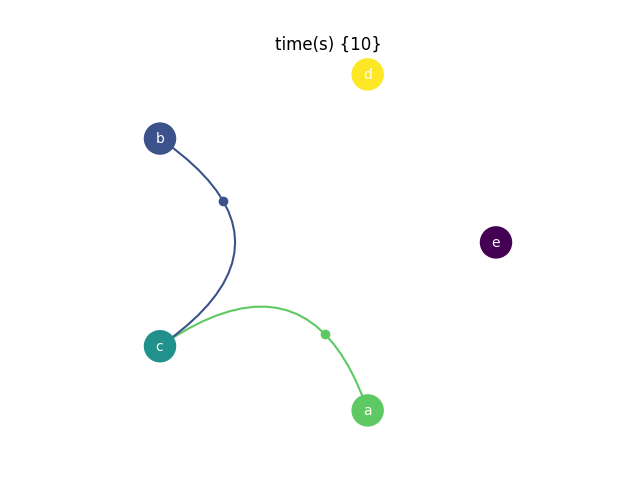
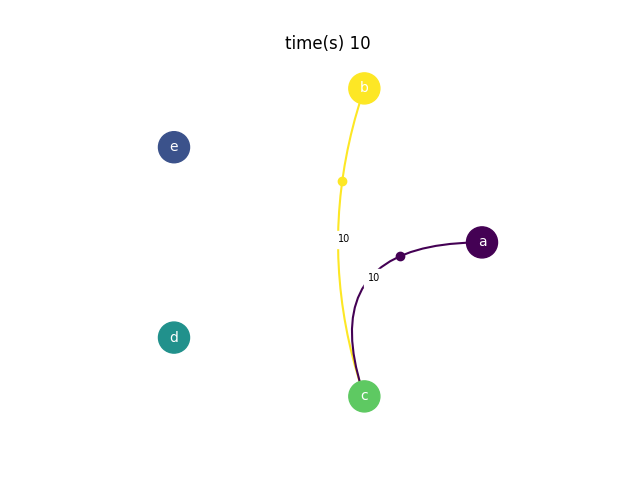
updated plotting, added requirements.txt

diff --git a/OVERTIME/plots/circle.py b/OVERTIME/plots/circle.py
@@ -1,36 +1,36 @@
 
 import math
 import numpy as np
-import matplotlib.pyplot as plot
+import matplotlib.pyplot as plt
 import matplotlib.lines as lines
+from plots.plot import Plot
 
-class Circle:
+
+
+class Circle(Plot):
     """
         A class which represents a circle plot of a graph.
     """
 
-    def __init__(self, graph):
-        self.graph = graph
-        self.nodes = {}
-        self.edges = {}
-        self.fig, self.ax = plot.subplots(1)
-        self.create()
+    def __init__(self, graph, axes, time=None):
+        super().__init__(graph, axes, time)
 
 
-    def create(self):
-        graph = self.graph
+    def create_nodes(self):
+        n = self.graph.nodes.count()
         nodes = self.nodes
-        edges = self.edges
-        n = graph.nodes.count()
-
         i = 0
-        for node in graph.nodes.set:
+        for node in self.graph.nodes.set:
             nodes[node.label] = {}
             nodes[node.label]['x'] = math.cos(2 * math.pi * i / n)
             nodes[node.label]['y'] = math.sin(2 * math.pi * i / n)
             i += 1
-            
-        for edge in graph.edges.stream:
+
+
+    def create_edges(self):
+        nodes = self.nodes
+        edges = self.edges
+        for edge in self.graph.edges.stream:
             edges[edge.uid] = {}
             edges[edge.uid]['p1'] = {}
             edges[edge.uid]['p1']['x'] = nodes[edge.source.label]['x']
@@ -39,36 +39,24 @@ class Circle:
             edges[edge.uid]['p2']['x'] = nodes[edge.sink.label]['x']
             edges[edge.uid]['p2']['y'] = nodes[edge.sink.label]['y']
 
-        
-        self.draw_figure(graph)
-        self.draw_nodes(graph, nodes, edges, n)
-        self.draw_edges(graph, nodes, edges)
-        self.cleanup()
 
-
-    def draw_figure(self, graph):
-        title = 'time(s) ' + str(graph.edges.active_times())
-        self.ax.set_title(
-            label=title,
-            loc='center'
-        )
-
-
-    def draw_nodes(self, graph, nodes, edges, n):
+    def draw_nodes(self):
+        n = self.graph.nodes.count()
+        nodes = self.nodes
         pos = {}
         pos['x'] = [nodes[key]['x'] for key in nodes.keys()]
         pos['y'] = [nodes[key]['y'] for key in nodes.keys()]
 
         colors = self.colors(n)
-        ax_node = self.ax.scatter(
+        ax_node = self.axes.scatter(
             pos['x'], pos['y'], s=500, c=colors, cmap='viridis', zorder=1
         )
-        plot.draw()
+        plt.draw()
 
         i = 0
         for node in self.graph.nodes.set:
             nodes[node.label]['color'] = ax_node.to_rgba(colors[i])
-            self.ax.text(
+            self.axes.text(
                 nodes[node.label]['x']-0.025, nodes[node.label]['y']-0.025,
                 node.label, color='white'
             )
@@ -86,33 +74,37 @@ class Circle:
         return c_mix
 
 
-    def draw_edges(self, graph, nodes, edges):
-        for edge in graph.edges.stream:
+    def draw_edges(self):
+        nodes = self.nodes
+        edges = self.edges
+        for edge in self.graph.edges.stream:
             bezier = self.bezier(
                 edges[edge.uid]['p1'],
                 edges[edge.uid]['p2']
             )
-            self.ax.plot(
+            self.axes.plot(
                 bezier['x'],
                 bezier['y'],
                 linestyle='-',
                 color=nodes[edge.source.label]['color'],
                 zorder=0
             )
-            self.ax.plot(
+            self.axes.plot(
                 bezier['x'][6],
                 bezier['y'][6],
                 'o',
                 color=nodes[edge.source.label]['color'],
                 zorder=1
             )
-            # self.ax.text(
-            #     bezier['x'][10], bezier['y'][10],
-            #     edge.time, 
-            #     color='black', backgroundcolor='white',
-            #     fontsize='x-small',
-            #     zorder=1
-            # )
+
+            if self.time is None:
+                self.axes.text(
+                    bezier['x'][10], bezier['y'][10],
+                    edge.time, 
+                    color='black', backgroundcolor='white',
+                    fontsize='x-small',
+                    zorder=1
+                )
 
 
     def bezier(self, p1, p2, p0=(0,0), nt=20):
@@ -131,7 +123,7 @@ class Circle:
 
 
     def cleanup(self):
-        ax = self.ax
+        ax = self.axes
         ax.set_yticklabels([])
         ax.set_xticklabels([])
         ax.set_yticks([])
@@ -144,8 +136,4 @@ class Circle:
         ax.spines['right'].set_visible(False)
         ax.spines['left'].set_visible(False)
         ax.spines['bottom'].set_visible(False)
-
-
-    def display(self):
-        #self.fig.show()
-        pass
+        ax.margins(0.1, 0.1)

diff --git a/OVERTIME/example.py b/OVERTIME/example.py
@@ -1,5 +1,5 @@
 
-import matplotlib.pyplot as plot
+import matplotlib.pyplot as plt
 import imageio
 
 from inputs.classes import CSVInput
@@ -12,24 +12,26 @@ input_data = CSVInput('network', 'csv', './network.csv')
 graph = TemporalGraph('TestNetwork', input_data)
 graph.print()
 
-# myplot = Circle(graph)
-# myplot.display()
+figure, axes = plt.subplots(1)
+Circle(graph, axes)
 
-# foremost_a = CalculateForemostTree(graph, 'a')
-# myplot = Circle(foremost_a.tree)
-# myplot.display()
+figure, axes = plt.subplots(nrows=2, ncols=2)
+foremost_a = CalculateForemostTree(graph, 'a')
+Circle(foremost_a.tree, axes[0][0])
 
-# foremost_c = CalculateForemostTree(graph, 'c')
-# myplot = Circle(foremost_c.tree)
-# myplot.display()
+foremost_c = CalculateForemostTree(graph, 'c')
+Circle(foremost_c.tree, axes[0][1])
 
-labels = []
-for t in graph.edges.active_times():
-    labels.append('time_' + str(t) + '.png')
-    Circle(graph.get_graph_by_time(t))
-    plot.savefig(labels[-1], format='png')
+# labels = []
+# for t in graph.edges.active_times():
+#     figure, axes = plt.subplots(1)
+#     labels.append('time_' + str(t) + '.png')
+#     Circle(graph.get_graph_by_time(t), axes, t)
+#     figure.savefig(labels[-1], format='png')
 
-images = [imageio.imread(f) for f in labels]
-imageio.mimsave('network.gif', images, duration=3)
+# images = [imageio.imread(f) for f in labels]
+# imageio.mimsave('network.gif', images, duration=3)
+
+plt.show()
 
 input("Press enter key to exit...")

diff --git a/OVERTIME/plots/plot.py b/OVERTIME/plots/plot.py
@@ -1,0 +1,57 @@
+
+import matplotlib.pyplot as plt
+
+class Plot:
+    """
+        Base Plot class.
+    """
+
+    def __init__(self, graph, axes, time=None):
+        self.graph = graph
+        self.time = str(time)[0]
+        self.nodes = {}
+        self.edges = {}
+        self.axes = axes
+        self.create()
+        self.draw()
+
+
+    def create(self):
+        self.create_nodes()
+        self.create_edges()
+
+
+    def draw(self):
+        if self.time is not None:
+            self.draw_figure()
+        self.draw_nodes()
+        self.draw_edges()
+        self.cleanup()
+
+
+    def create_nodes(self):
+        pass
+
+
+    def create_edges(self):
+        pass
+
+
+    def draw_figure(self):
+        title = 'time ' + self.time
+        self.axes.set_title(
+            label=title,
+            loc='center'
+        )
+
+    
+    def draw_nodes(self):
+        pass
+
+
+    def draw_edges(self):
+        pass
+
+
+    def cleanup(self):
+        pass

diff --git a/OVERTIME/multi_plot_example.py b/OVERTIME/multi_plot_example.py
@@ -1,0 +1,29 @@
+
+import matplotlib.pyplot as plt
+
+from inputs.classes import CSVInput
+from components.graphs import TemporalGraph
+from plots.circle import Circle
+
+input_data = CSVInput('network', 'csv', './network.csv')
+
+graph = TemporalGraph('TestNetwork', input_data)
+graph.print()
+
+graph.edges.add('b', 'e', graph.nodes, 4)
+
+
+figure, axes = plt.subplots(nrows=3, ncols=3)
+#times = graph.edges.active_times()
+times = range(0, 10)
+i = 0
+for row in axes:
+    for col in row:
+        Circle(graph.get_graph_by_time(times[i]), col, times[i])
+        i += 1
+        if i > 9:
+            break
+
+figure.show()
+
+input("Press enter key to exit...")

diff --git a/OVERTIME/components/graphs.py b/OVERTIME/components/graphs.py
@@ -12,7 +12,6 @@ class Graph:
         self.nodes = Nodes()
         self.edges = Edges()
 
-        print("Building graph...")
         if input_data.type == 'csv':
             self.build_from_csv(input_data)
 
@@ -38,7 +37,6 @@ class TemporalGraph(Graph):
         self.nodes = Nodes()
         self.edges = TemporalEdges()
 
-        print("Building graph...")
         if input_data is not None and input_data.type == 'csv':
             self.build_from_csv(input_data)
 

diff --git a/OVERTIME/components/edges.py b/OVERTIME/components/edges.py
@@ -149,7 +149,7 @@ class TemporalEdges(Edges):
 
 
     def active_times(self):
-        return set(self.times())
+        return list(set(self.times()))
 
 
     def firsttime(self):
